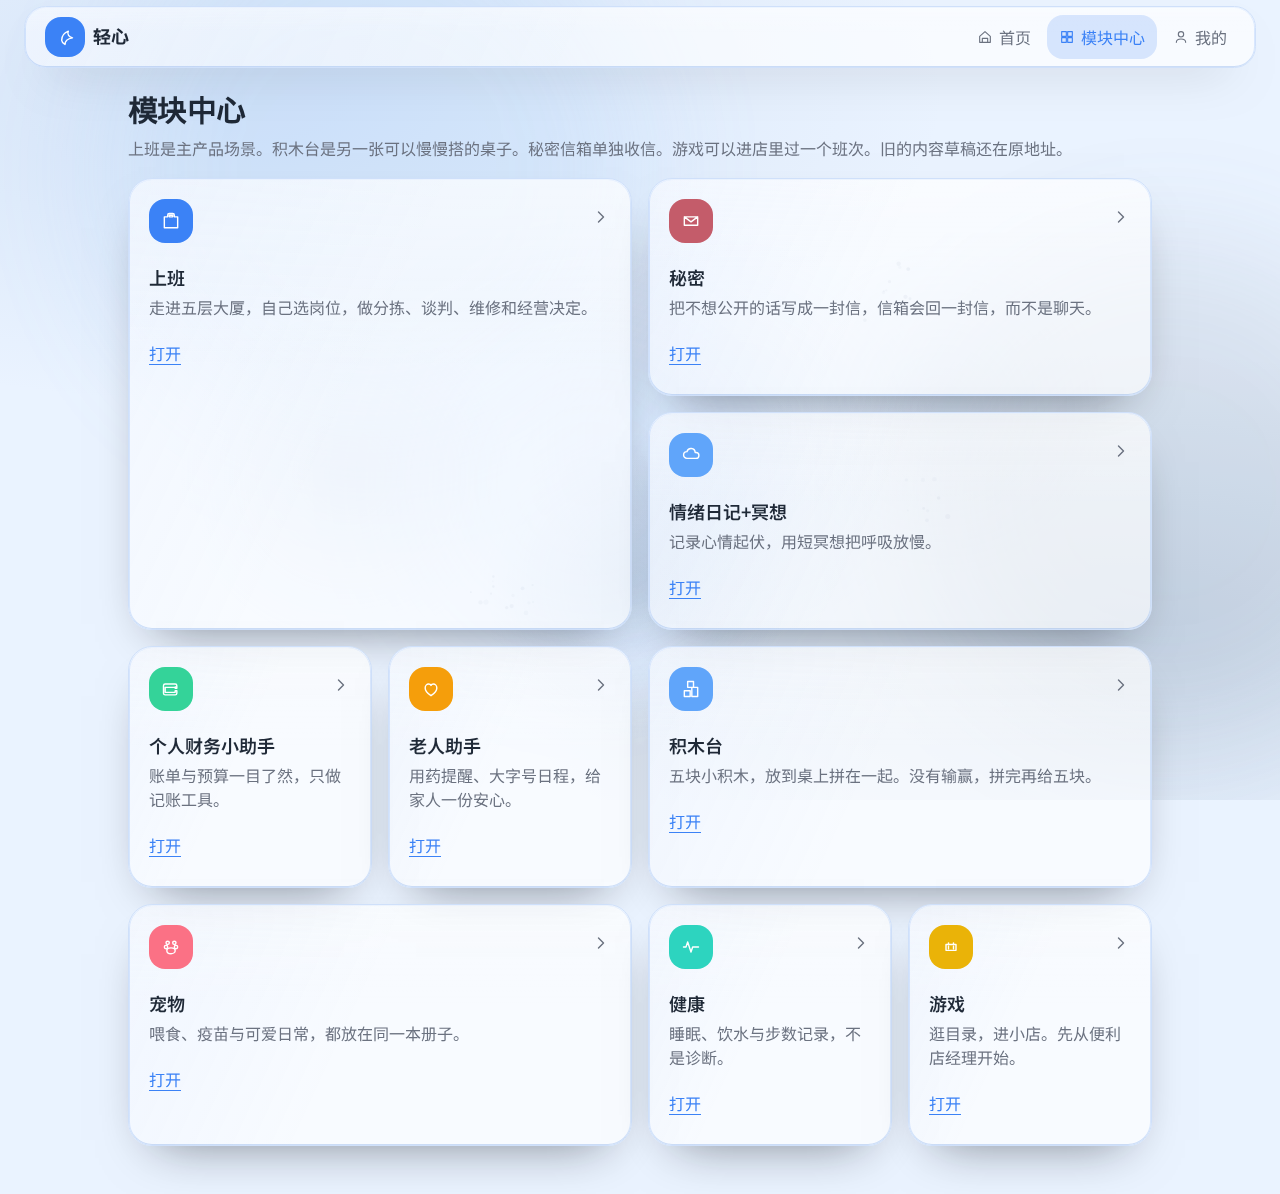
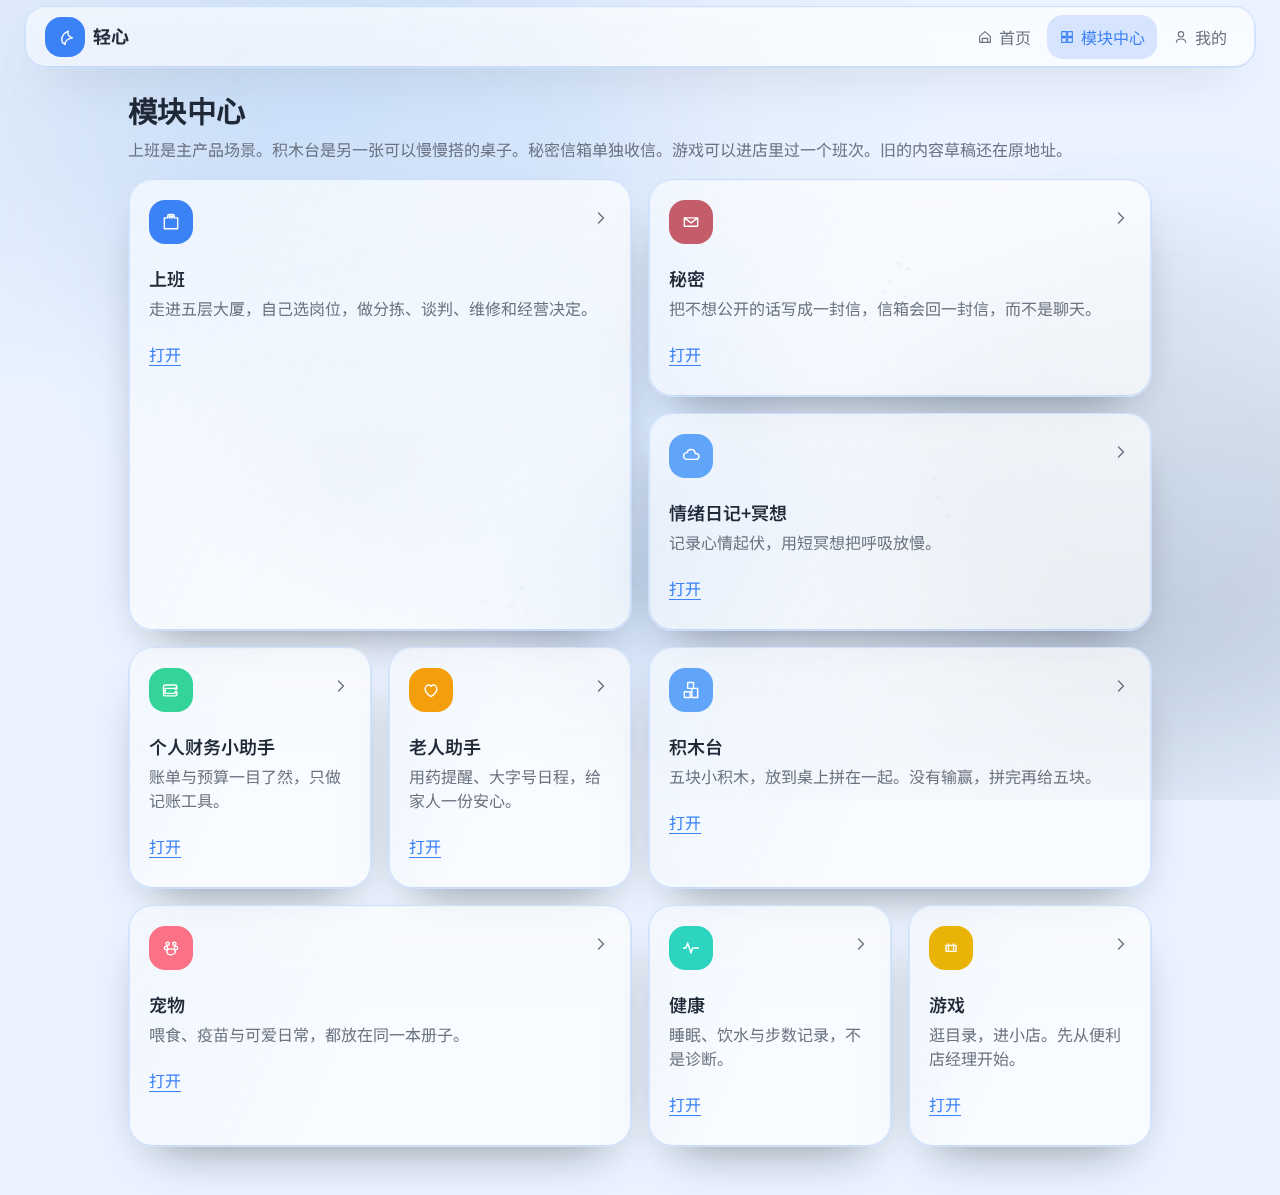
fix: pin glass top bar to the viewport and hide scrollbar chrome
Ge asked for a header that does not travel with page scroll, and for
scrollbar chrome to disappear while scrolling still works. The top bar
is now position:fixed with a measured spacer and scroll-padding-top so
content and focus stay below it. Scrollbars use scrollbar-width:none
plus a WebKit fallback instead of overflow:hidden.

diff --git a/web/e2e/space-glass.e2e.ts b/web/e2e/space-glass.e2e.ts
@@ -272,4 +272,152 @@ test.describe('space-glass shell', () => {
 		await expect(page.locator('[data-shangban-dock]')).toBeVisible({ timeout: 20_000 });
 		await page.screenshot({ path: 'screenshots/space-glass-after-shangban-dock-390-dark.png' });
 	});
+
+	for (const view of [
+		{ width: 390, height: 844, shot: true },
+		{ width: 768, height: 1024, shot: false },
+		{ width: 1280, height: 800, shot: true }
+	] as const) {
+		test(`fixed header stays pinned and scrollbar chrome is hidden at ${view.width}`, async ({
+			page
+		}) => {
+			await page.setViewportSize({ width: view.width, height: view.height });
+			await boot(page, 'dark');
+			await page.goto('/', { waitUntil: 'networkidle' });
+			const header = page.locator('[data-qx-topbar]');
+			await expect(header).toBeVisible();
+			const position = await header.evaluate((el) => getComputedStyle(el).position);
+			expect(position).toBe('fixed');
+			const start = await header.evaluate((el) => {
+				const box = el.getBoundingClientRect();
+				return { top: box.top, bottom: box.bottom };
+			});
+			expect(start.top).toBeGreaterThanOrEqual(0);
+			expect(start.top).toBeLessThan(48);
+			const headingTop = await page.locator('h1').evaluate((el) => el.getBoundingClientRect().top);
+			expect(headingTop).toBeGreaterThanOrEqual(start.bottom - 1);
+			const pageOverflow = await page.evaluate(() => ({
+				html: getComputedStyle(document.documentElement).overflow,
+				body: getComputedStyle(document.body).overflow
+			}));
+			expect(pageOverflow.html === 'hidden' || pageOverflow.html === 'clip').toBeFalsy();
+			expect(pageOverflow.body === 'hidden' || pageOverflow.body === 'clip').toBeFalsy();
+
+			await page.mouse.move(Math.round(view.width / 2), Math.round(view.height / 2));
+			const beforeWheel = await page.evaluate(() => window.scrollY);
+			await page.mouse.wheel(0, 480);
+			await expect
+				.poll(async () => page.evaluate(() => window.scrollY))
+				.toBeGreaterThan(beforeWheel);
+
+			await page.evaluate(() => window.scrollTo(0, 720));
+			await expect.poll(async () => page.evaluate(() => window.scrollY)).toBeGreaterThan(400);
+			const moved = await header.evaluate((el) => {
+				const box = el.getBoundingClientRect();
+				return { top: box.top, bottom: box.bottom };
+			});
+			expect(Math.abs(moved.top - start.top)).toBeLessThan(2);
+			expect(await header.evaluate((el) => getComputedStyle(el).pointerEvents)).not.toBe('none');
+			await expect(header.getByRole('link', { name: '模块中心' })).toBeVisible();
+
+			const bars = await page.evaluate(() => {
+				const root = document.documentElement;
+				const cs = getComputedStyle(root);
+				const probe = document.createElement('div');
+				probe.setAttribute('data-qx-hscroll-probe', '1');
+				probe.style.cssText =
+					'overflow-x:auto;width:80px;height:24px;position:fixed;left:0;bottom:0;opacity:0';
+				probe.innerHTML = '<div style="width:400px;height:1px"></div>';
+				document.body.append(probe);
+				probe.scrollLeft = 120;
+				const result = {
+					scrollbarWidth: cs.scrollbarWidth,
+					gutter: window.innerWidth - root.clientWidth,
+					probeLeft: probe.scrollLeft,
+					probeOverflow: getComputedStyle(probe).overflowX,
+					probeBar: getComputedStyle(probe).scrollbarWidth
+				};
+				probe.remove();
+				return result;
+			});
+			expect(bars.scrollbarWidth).toBe('none');
+			expect(bars.gutter).toBe(0);
+			expect(bars.probeLeft).toBeGreaterThan(0);
+			expect(bars.probeOverflow).toBe('auto');
+			expect(bars.probeBar).toBe('none');
+			await noOverflow(page, view.width);
+			if (view.shot) {
+				await page.screenshot({
+					path: `screenshots/space-glass-scrolled-home-${view.width}-dark.png`
+				});
+			}
+
+			await page.goto('/modules', { waitUntil: 'networkidle' });
+			await expect(header).toBeVisible();
+			const moduleStart = await header.evaluate((el) => el.getBoundingClientRect().top);
+			await page.evaluate(() => window.scrollTo(0, 520));
+			await expect.poll(async () => page.evaluate(() => window.scrollY)).toBeGreaterThan(200);
+			expect(
+				Math.abs((await header.evaluate((el) => el.getBoundingClientRect().top)) - moduleStart)
+			).toBeLessThan(2);
+			await noOverflow(page, view.width);
+		});
+	}
+
+	test('keyboard focus and dialogs stay clear of the pinned header', async ({ page }) => {
+		await page.setViewportSize({ width: 1280, height: 800 });
+		await boot(page, 'dark');
+		await page.goto('/', { waitUntil: 'networkidle' });
+		const footer = page.getByRole('link', { name: '打开模块中心' });
+		await footer.evaluate((el) => (el as HTMLElement).focus());
+		const headerBottom = await page
+			.locator('[data-qx-topbar]')
+			.evaluate((el) => el.getBoundingClientRect().bottom);
+		const focused = await footer.evaluate((el) => el.getBoundingClientRect());
+		expect(focused.top).toBeGreaterThanOrEqual(headerBottom - 1);
+		expect(focused.bottom).toBeGreaterThan(headerBottom);
+		expect(await page.evaluate(() => window.scrollY)).toBeGreaterThan(0);
+
+		await page.goto('/login', { waitUntil: 'networkidle' });
+		const email = page.getByLabel('邮箱');
+		await email.focus();
+		const emailBox = await email.evaluate((el) => el.getBoundingClientRect());
+		const loginHeaderBottom = await page
+			.locator('[data-qx-topbar]')
+			.evaluate((el) => el.getBoundingClientRect().bottom);
+		expect(emailBox.top).toBeGreaterThanOrEqual(loginHeaderBottom - 1);
+
+		await page.goto('/kit', { waitUntil: 'networkidle' });
+		await page.getByRole('button', { name: '模态弹窗' }).click();
+		const dialog = page.getByRole('dialog');
+		await expect(dialog).toBeVisible();
+		const dialogBox = await dialog.boundingBox();
+		expect(dialogBox).toBeTruthy();
+		expect(dialogBox!.width).toBeGreaterThan(200);
+		await expect(page.locator('[data-qx-topbar]')).toBeVisible();
+
+		await page.keyboard.press('Escape');
+		await page.goto('/modules/jimutai', { waitUntil: 'networkidle' });
+		await expect(page.locator('[data-qx-topbar]')).toHaveCount(0);
+		await expect(page.getByRole('link', { name: '← 返回模块' })).toBeVisible();
+		await page.goto('/modules/shangban', { waitUntil: 'networkidle' });
+		await expect(page.locator('[data-qx-topbar]')).toHaveCount(0);
+		await expect(page.getByRole('link', { name: '← 返回模块' })).toBeVisible();
+	});
+
+	test('settings still scrolls with hidden bars and a pinned header', async ({ page }) => {
+		await page.setViewportSize({ width: 390, height: 844 });
+		await boot(page, 'dark');
+		await page.goto('/settings', { waitUntil: 'networkidle' });
+		const header = page.locator('[data-qx-topbar]');
+		expect(await header.evaluate((el) => getComputedStyle(el).position)).toBe('fixed');
+		const top = await header.evaluate((el) => el.getBoundingClientRect().top);
+		await page.keyboard.press('End');
+		await expect.poll(async () => page.evaluate(() => window.scrollY)).toBeGreaterThan(40);
+		expect(await header.evaluate((el) => el.getBoundingClientRect().top)).toBeCloseTo(top, 0);
+		await expect(header.getByRole('link', { name: '我的' })).toBeVisible();
+		expect(
+			await page.evaluate(() => getComputedStyle(document.documentElement).scrollbarWidth)
+		).toBe('none');
+	});
 });

diff --git a/web/src/lib/components/AppShell.svelte b/web/src/lib/components/AppShell.svelte
@@ -1,8 +1,10 @@
 <script lang="ts">
+	import { browser } from '$app/env';
 	import { page } from '$app/state';
 	import type { Snippet } from 'svelte';
 	import { TOPBAR, isPlayView, isTopbarActive } from '../nav';
 	import SpaceDust from '../shell/SpaceDust.svelte';
+	import { topbarOffsetPx } from '../shell/topbar';
 	import Icon from './Icon.svelte';
 	import OfflineBanner from './OfflineBanner.svelte';
 	import PrivacyGate from './PrivacyGate.svelte';
@@ -12,6 +14,41 @@
 
 	const pathname = $derived(page.url.pathname);
 	const playView = $derived(isPlayView(pathname));
+
+	let headerEl: HTMLElement | undefined = $state();
+
+	function writeTopbarOffset(play: boolean, el: HTMLElement | undefined) {
+		if (!browser) return;
+		const root = document.documentElement;
+		if (play) {
+			root.style.setProperty('--qx-topbar-offset', topbarOffsetPx(true, 0));
+			return;
+		}
+		if (!el) return;
+		root.style.setProperty(
+			'--qx-topbar-offset',
+			topbarOffsetPx(false, el.getBoundingClientRect().bottom)
+		);
+	}
+
+	$effect(() => {
+		if (!browser) return;
+		const play = playView;
+		const el = headerEl;
+		writeTopbarOffset(play, el);
+		if (play || !el) return;
+		const onMeasure = () => writeTopbarOffset(false, el);
+		const ro = new ResizeObserver(onMeasure);
+		ro.observe(el);
+		window.addEventListener('resize', onMeasure);
+		window.visualViewport?.addEventListener('resize', onMeasure);
+		return () => {
+			ro.disconnect();
+			window.removeEventListener('resize', onMeasure);
+			window.visualViewport?.removeEventListener('resize', onMeasure);
+			writeTopbarOffset(true, undefined);
+		};
+	});
 </script>
 
 <div
@@ -27,15 +64,15 @@
 		<SpaceDust {playView} />
 	{/if}
 
-	<OfflineBanner />
 	<PrivacyGate />
 	<Toast />
 
 	<div class="relative z-10 flex min-h-dvh w-full min-w-0 flex-col">
 		{#if !playView}
 			<header
+				bind:this={headerEl}
 				data-qx-topbar="1"
-				class="qx-glass sticky top-0 z-30 mx-3 mt-[max(0.4rem,env(safe-area-inset-top))] flex flex-wrap items-center gap-2 rounded-[1.35rem] px-3 py-2 md:mx-6 md:px-4"
+				class="qx-glass qx-topbar flex flex-wrap items-center gap-2 rounded-[1.35rem] px-3 py-2 md:px-4"
 			>
 				<a href="/" class="flex min-h-11 min-w-11 items-center gap-2 px-1">
 					<span
@@ -63,9 +100,13 @@
 					{/each}
 				</nav>
 			</header>
+			<div class="qx-topbar-spacer" aria-hidden="true" data-qx-topbar-spacer="1"></div>
 		{/if}
 
+		<OfflineBanner />
+
 		<main
+			id="qx-main"
 			class="min-w-0 flex-1 overflow-x-clip {playView
 				? 'h-dvh overflow-hidden px-0 pb-0'
 				: 'px-4 pt-5 pb-10 md:px-8 md:pt-6 md:pb-12'}"

diff --git a/web/src/routes/layout.css b/web/src/routes/layout.css
@@ -80,6 +80,11 @@ body {
 	font-size: 16px;
 	line-height: 1.6;
 	caret-color: var(--qx-primary);
+	scrollbar-width: none;
+}
+
+html {
+	scroll-padding-top: var(--qx-topbar-offset, 0px);
 }
 
 ::selection {
@@ -88,7 +93,40 @@ body {
 }
 
 * {
-	scrollbar-color: color-mix(in oklab, var(--qx-primary) 45%, var(--qx-line)) transparent;
+	scrollbar-width: none;
+}
+
+html::-webkit-scrollbar,
+body::-webkit-scrollbar,
+*::-webkit-scrollbar {
+	width: 0;
+	height: 0;
+	display: none;
+	background: transparent;
+}
+
+.qx-topbar {
+	position: fixed;
+	top: 0;
+	inset-inline: 0;
+	z-index: 40;
+	margin-top: max(0.4rem, env(safe-area-inset-top, 0px));
+	margin-left: max(0.75rem, env(safe-area-inset-left, 0px));
+	margin-right: max(0.75rem, env(safe-area-inset-right, 0px));
+	pointer-events: auto;
+}
+
+@media (min-width: 768px) {
+	.qx-topbar {
+		margin-left: max(1.5rem, env(safe-area-inset-left, 0px));
+		margin-right: max(1.5rem, env(safe-area-inset-right, 0px));
+	}
+}
+
+.qx-topbar-spacer {
+	flex-shrink: 0;
+	height: var(--qx-topbar-offset, 5.75rem);
+	pointer-events: none;
 }
 
 body {

diff --git a/web/src/lib/shell/topbar.spec.ts b/web/src/lib/shell/topbar.spec.ts
@@ -1,0 +1,17 @@
+import { describe, expect, it } from 'vitest';
+import { topbarOffsetPx } from './topbar';
+
+describe('topbar offset', () => {
+	it('clears reserve on play views and missing measurements', () => {
+		expect(topbarOffsetPx(true, 88)).toBe('0px');
+		expect(topbarOffsetPx(false, null)).toBe('0px');
+		expect(topbarOffsetPx(false, undefined)).toBe('0px');
+		expect(topbarOffsetPx(false, Number.NaN)).toBe('0px');
+	});
+
+	it('ceils the header bottom so in-flow content clears the bar', () => {
+		expect(topbarOffsetPx(false, 72.2)).toBe('73px');
+		expect(topbarOffsetPx(false, 0)).toBe('0px');
+		expect(topbarOffsetPx(false, -4)).toBe('0px');
+	});
+});

diff --git a/web/src/lib/shell/topbar.ts b/web/src/lib/shell/topbar.ts
@@ -1,0 +1,6 @@
+export function topbarOffsetPx(playView: boolean, headerBottom: number | null | undefined): string {
+	if (playView || headerBottom == null || !Number.isFinite(headerBottom)) {
+		return '0px';
+	}
+	return `${Math.max(0, Math.ceil(headerBottom))}px`;
+}

diff --git a/openspec/specs/app-shell/spec.md b/openspec/specs/app-shell/spec.md
@@ -29,6 +29,24 @@ The system SHALL navigate from a compact top bar (首页, 模块中心, 我的) 
 - **WHEN** the viewport is 1280px wide
 - **THEN** no `aside` is present and the top bar includes 模块中心
 
+### Requirement: Viewport-fixed top bar
+
+The compact glass top bar SHALL be `position: fixed` to the viewport on non-play routes. It SHALL NOT travel with page scroll. In-flow content SHALL start below the bar, and the document scrollport SHALL use `scroll-padding-top` at least as large as the bar (including safe-area inset) so focused controls and fragment targets are not hidden. Play routes SHALL continue to omit the top bar.
+
+#### Scenario: Header stays pinned while the page scrolls
+
+- **WHEN** a user scrolls a long home, module center, or settings surface
+- **THEN** the top bar's viewport bounding rect stays put while `scrollTop` increases
+
+### Requirement: Hidden scrollbar chrome
+
+Qingxin pages and existing overflow panels SHALL hide classic scrollbar chrome while remaining scrollable with wheel, trackpad, touch, and keyboard. The document SHALL NOT set `overflow: hidden` on `html` or `body` merely to hide that chrome. Horizontal overflow regions SHALL still scroll.
+
+#### Scenario: Scrollbar is gone but content still scrolls
+
+- **WHEN** a page is taller than the viewport
+- **THEN** no classic scrollbar gutter is reserved, computed `scrollbar-width` is `none`, and wheel or keyboard still changes `scrollTop`
+
 ### Requirement: Module hub
 
 The system SHALL present a hub listing these modules: 情绪日记+冥想, 个人财务小助手, 老人助手, 宠物, 健康, 上班, 积木台, 秘密, 游戏. Opening 情绪日记+冥想 SHALL continue to load M1. Opening 健康 SHALL load the M7 wellness app (not the generic placeholder). Opening 上班 SHALL load the company sim (not the generic placeholder). Opening 积木台 SHALL load the construction sandbox (not the generic placeholder). `/modules/create` MAY still load the M9 studio as a legacy drafts route. Opening 游戏 SHALL load the games catalog (not a disabled 即将到来 tile). 组件 SHALL NOT appear as a hub module. 本地生活, AI效率工具箱, 学习打卡, and 求职副业 SHALL NOT appear as live hub modules; their old URLs SHALL show a retired notice or redirect.

diff --git a/docs/superpowers/specs/2026-11-18-space-glass-design.md b/docs/superpowers/specs/2026-11-18-space-glass-design.md
@@ -83,6 +83,8 @@ Do **not** chrome-plate Three.js worlds. 上班 floors, 积木台 table, garden,
 - No dust over game canvases. No particle overlay in the accessibility tree.
 - Keyboard: Tab through top bar then board. Browser back and deep links unchanged.
 - 390 / 768 / 1280 / 1600: no leftover left gutter, no horizontal overflow.
+- Compact glass top bar is `position: fixed` to the viewport (not sticky inside a scrolling column). In-flow content and `scroll-padding-top` start below it so focus, anchors, and skip targets are not hidden.
+- Page and existing overflow panels hide scrollbar chrome (`scrollbar-width: none` plus `::-webkit-scrollbar` fallback) while wheel, trackpad, touch, and keyboard scrolling keep working. Do not use `overflow: hidden` on `html`/`body` to fake that.
 
 ## Out of scope
 
